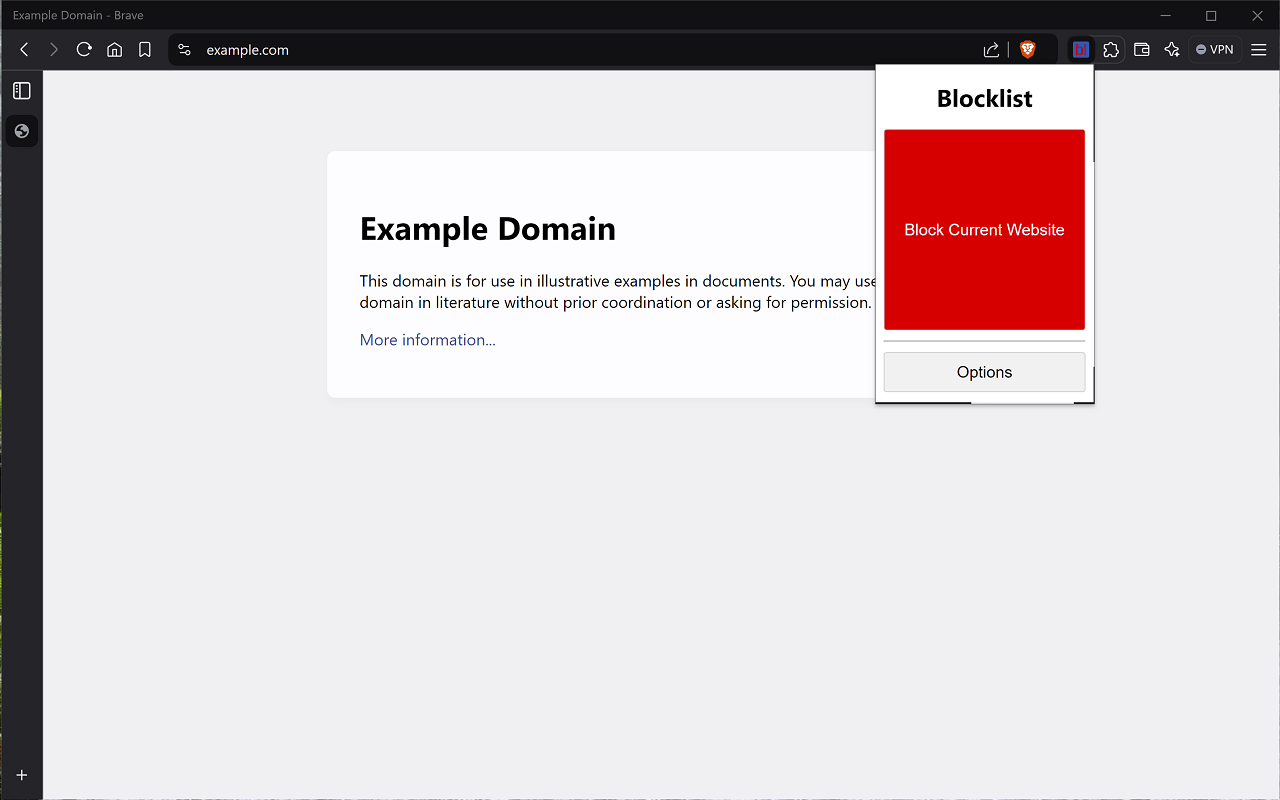
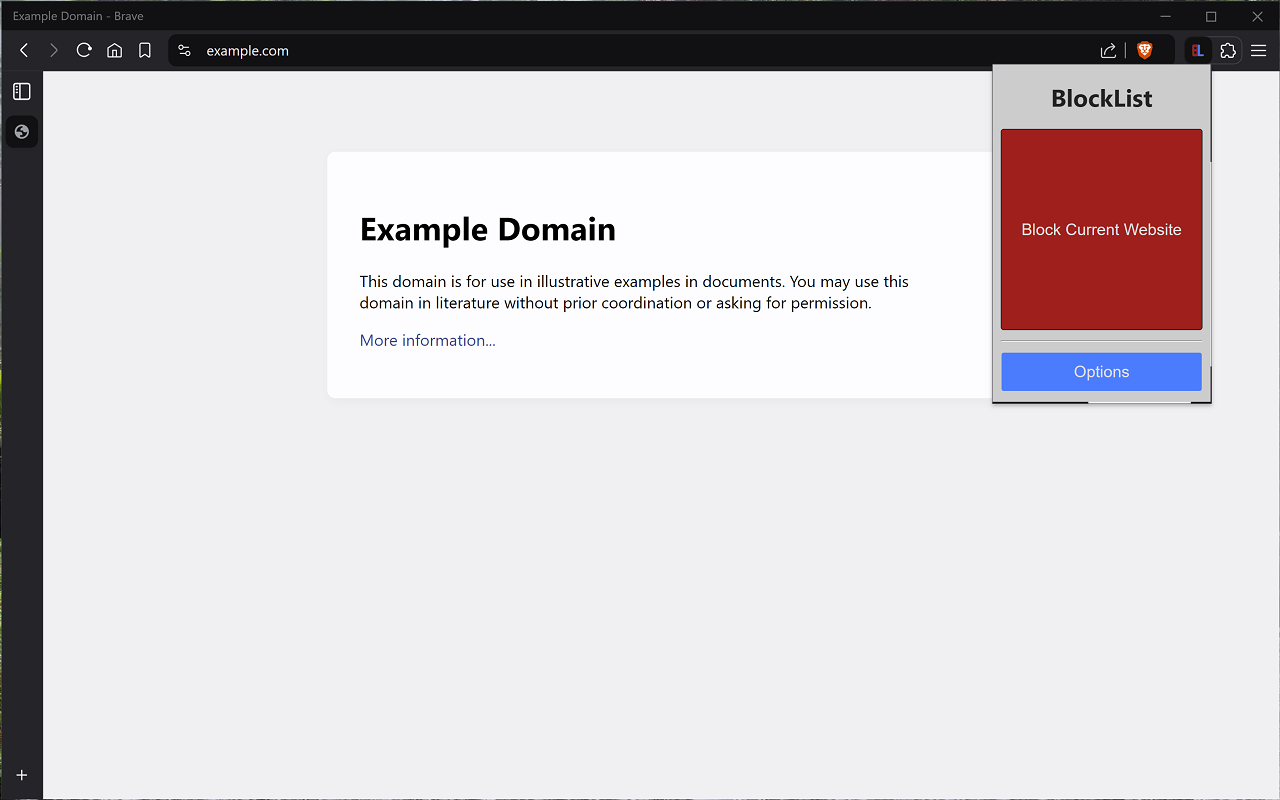
update promo

diff --git a/blocklist/src/options/index.html b/blocklist/src/options/index.html
@@ -2,19 +2,19 @@
 <html>
 
 <head>
-    <title>Blocklist | Options</title>
+    <title>BlockList | Options</title>
     <meta name="viewport" content="width=device-width, initial-scale=1.0">
     <link rel="stylesheet" href="./style.css">
 </head>
 
 <body>
     <div id="modal">
-        <h1>Blocklist Options</h1>
-        <h2>Manage Blocklist</h2>
+        <h1>BlockList Options</h1>
+        <h2>Manage BlockList</h2>
         <hr>
         <div>
             <input type="text" id="blocklistInput" placeholder="Enter a website to block">
-            <button id="blockButton" title="Add site to blocklist">Add to Blocklist</button>
+            <button id="blockButton" title="Add site to blocklist">Add to BlockList</button>
             <div id="table-div">
                 <table>
                     <thead>

diff --git a/blocklist/src/popup/index.html b/blocklist/src/popup/index.html
@@ -2,14 +2,14 @@
 <html>
 
 <head>
-    <title>Blocklist | Popup</title>
+    <title>BlockList | Popup</title>
     <meta name="viewport" content="width=device-width, initial-scale=1.0">
     <link rel="stylesheet" href="./style.css">
 </head>
 
 <body>
     <div class="center-div">
-        <h1>Blocklist</h1>
+        <h1>BlockList</h1>
         <div class="center-div">
             <button class="button-popup-block" id="blockButton" title="Block Current Website">Block Current
                 Website</button>

diff --git a/blocklist/src/blocked/index.html b/blocklist/src/blocked/index.html
@@ -2,7 +2,7 @@
 <html>
 
 <head>
-    <title>Blocklist | Blocked</title>
+    <title>BlockList | Blocked</title>
     <meta name="viewport" content="width=device-width, initial-scale=1.0">
     <link rel="stylesheet" href="./style.css">
 </head>

diff --git a/README.md b/README.md
@@ -1,4 +1,4 @@
-# Blocklist Extension
+# BlockList Extension
 
 ## Introduction
 This is a simple extension to add websites to a list of domains that will redirect to a specified website.
